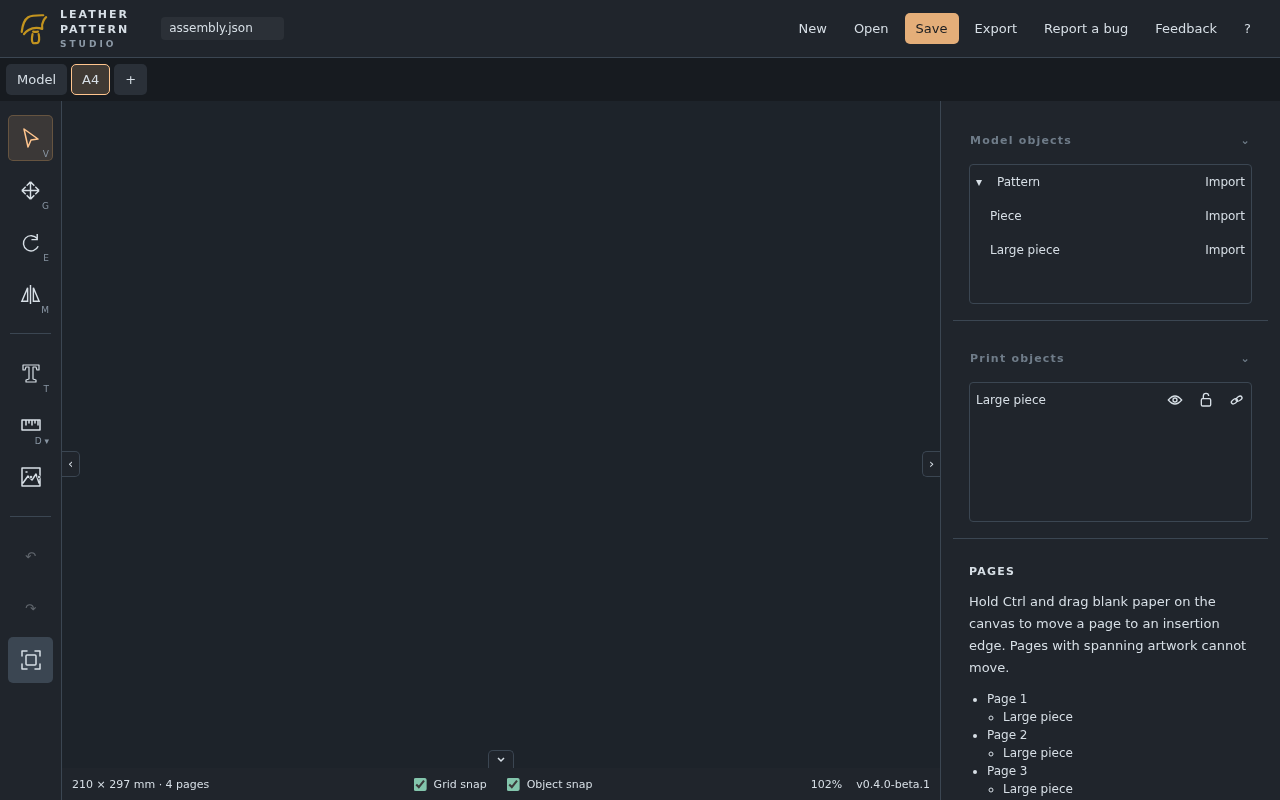
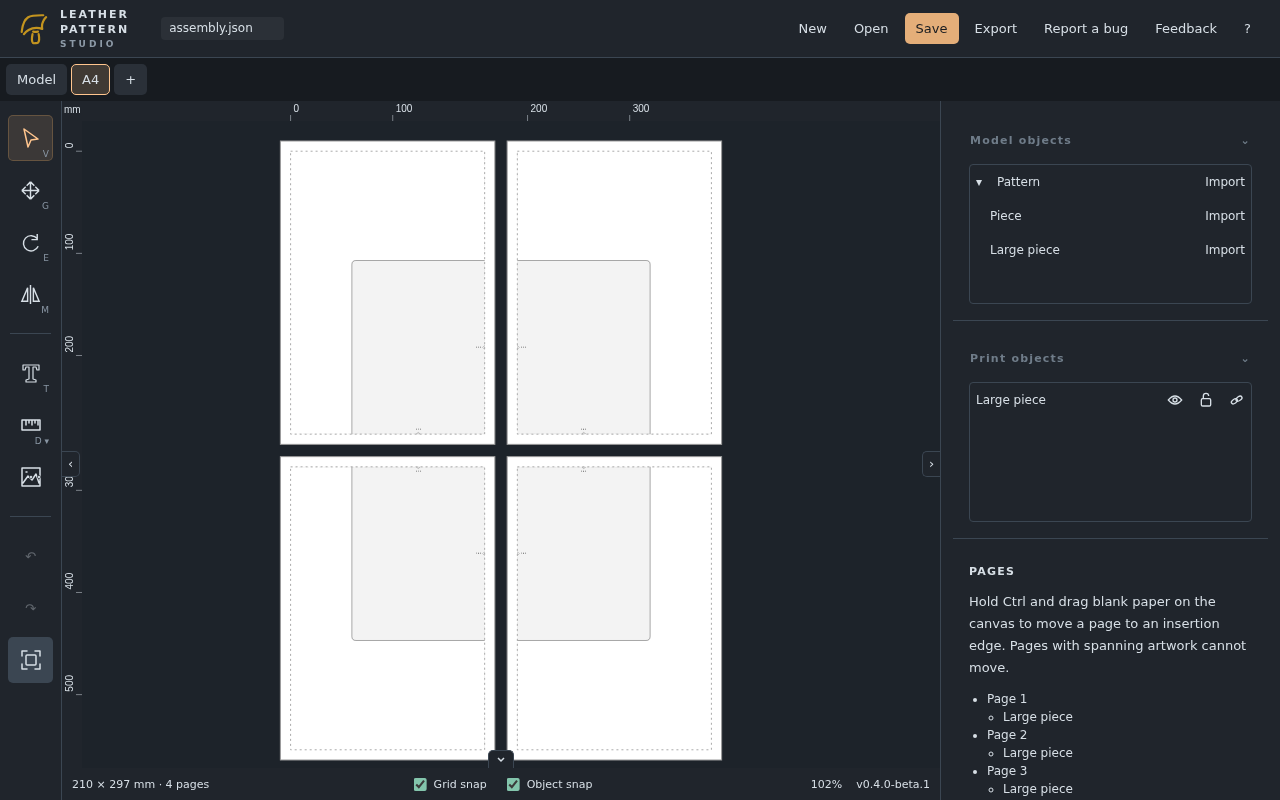
Stabilize property previews and manual captures

Changed region(s): [[0.2188, 0.1562, 0.5625, 0.9688]]

diff --git a/src/editor/controller.test.ts b/src/editor/controller.test.ts
@@ -2468,3 +2468,24 @@ test("focus loss preserves stitching sessions and their draft", () => {
   expect(e.stitchOriginal).toBe(original);
   expect(e.stitchDraft).toBe(draft);
 });
+
+test("a rejected property preview cannot overwrite the status after its field commits", async () => {
+  const e = editor();
+  await e.commit({ version: 5, shapes: [shape] });
+  let rejectPreview!: (error: Error) => void;
+  const request = e.core.request.bind(e.core);
+  vi.spyOn(e.core, "request").mockImplementation((op, revision, next) =>
+    op === "preview"
+      ? new Promise((_, reject) => { rejectPreview = reject; })
+      : request(op, revision, next),
+  );
+  e.beginProperty();
+  const preview = e.edit("a", { rotation: 20 });
+  await e.finishProperty();
+  const message = e.message;
+  rejectPreview(Error("Stale document revision"));
+  await preview;
+  expect(e.message).toBe(message);
+  expect(e.document.shapes[0].rotation).toBe(20);
+  expect(e.preview).toBeNull();
+});

diff --git a/tests/print.spec.ts b/tests/print.spec.ts
@@ -1685,6 +1685,15 @@ test(
       .poll(async () => (await save(page)).printLayouts[0].pages.length)
       .toBe(4);
     await page.getByRole("button", { name: "Fit", exact: true }).click();
+    // The print renderer resolves artwork asynchronously after Fit.
+    await expect.poll(() => page.getByLabel("Print layout canvas", { exact: true }).evaluate((canvas: HTMLCanvasElement) => {
+      const pixels = canvas.getContext("2d")!.getImageData(0, 0, canvas.width, canvas.height).data;
+      let white = 0;
+      for (let i = 0; i < pixels.length; i += 4) {
+        if (pixels[i] === 255 && pixels[i + 1] === 255 && pixels[i + 2] === 255) white++;
+      }
+      return white;
+    })).toBeGreaterThan(100000);
     await manualScreenshot(page, "print-assembly.png");
     await page.getByRole("button", { name: "Export", exact: true }).click();
     const dialog = page.getByRole("dialog", { name: "Export print layout" });

diff --git a/src/editor/controller.ts b/src/editor/controller.ts
@@ -3403,8 +3403,13 @@ export class Controller {
           "preview",
           revision,
           reconcileStitches(next, this.document),
-        );
+        ).catch((error) => {
+          // A committed or superseded field can invalidate an in-flight preview.
+          if (this.propertySession !== session || token !== this.previewId || this.revision !== revision) return null;
+          throw error;
+        });
         if (
+          result &&
           this.propertySession === session &&
           token === this.previewId &&
           this.revision === revision

diff --git a/tests/text.spec.ts b/tests/text.spec.ts
@@ -91,6 +91,7 @@ test("whole label formatting survives inline editing and undo @manual", async ({
   const spacing = page.getByLabel("Line spacing", { exact: true });
   await spacing.fill("1.8");
   await spacing.press("Enter");
+  await expect(page.getByRole("status").first()).toHaveText("Ready");
   await manualScreenshot(page, "text-formatting.png");
   await canvas.dblclick({ position: { x: 245, y: 245 } });
   await expect(input).toHaveCSS("font-family", "PatternSerif");
